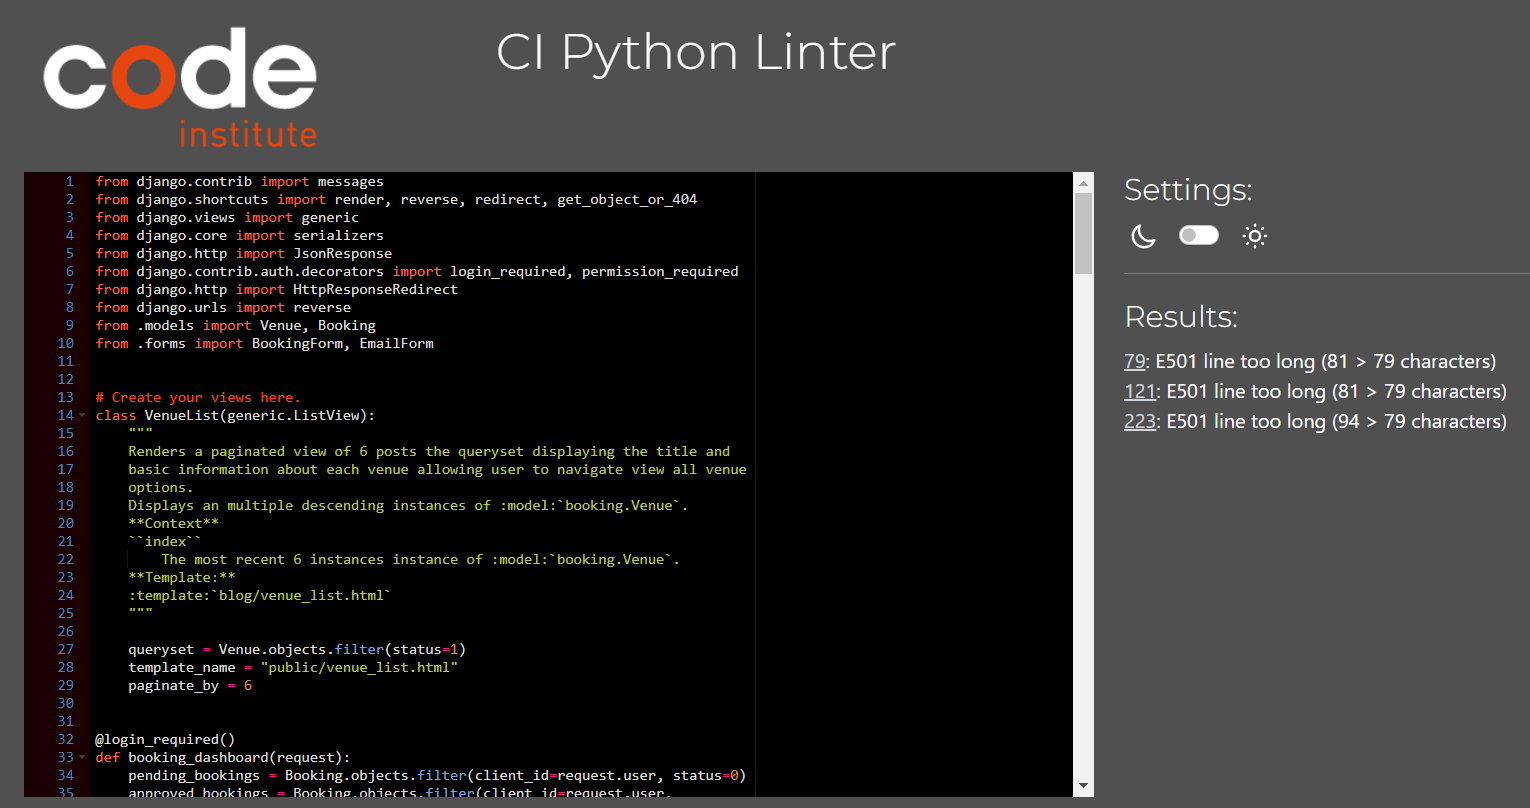
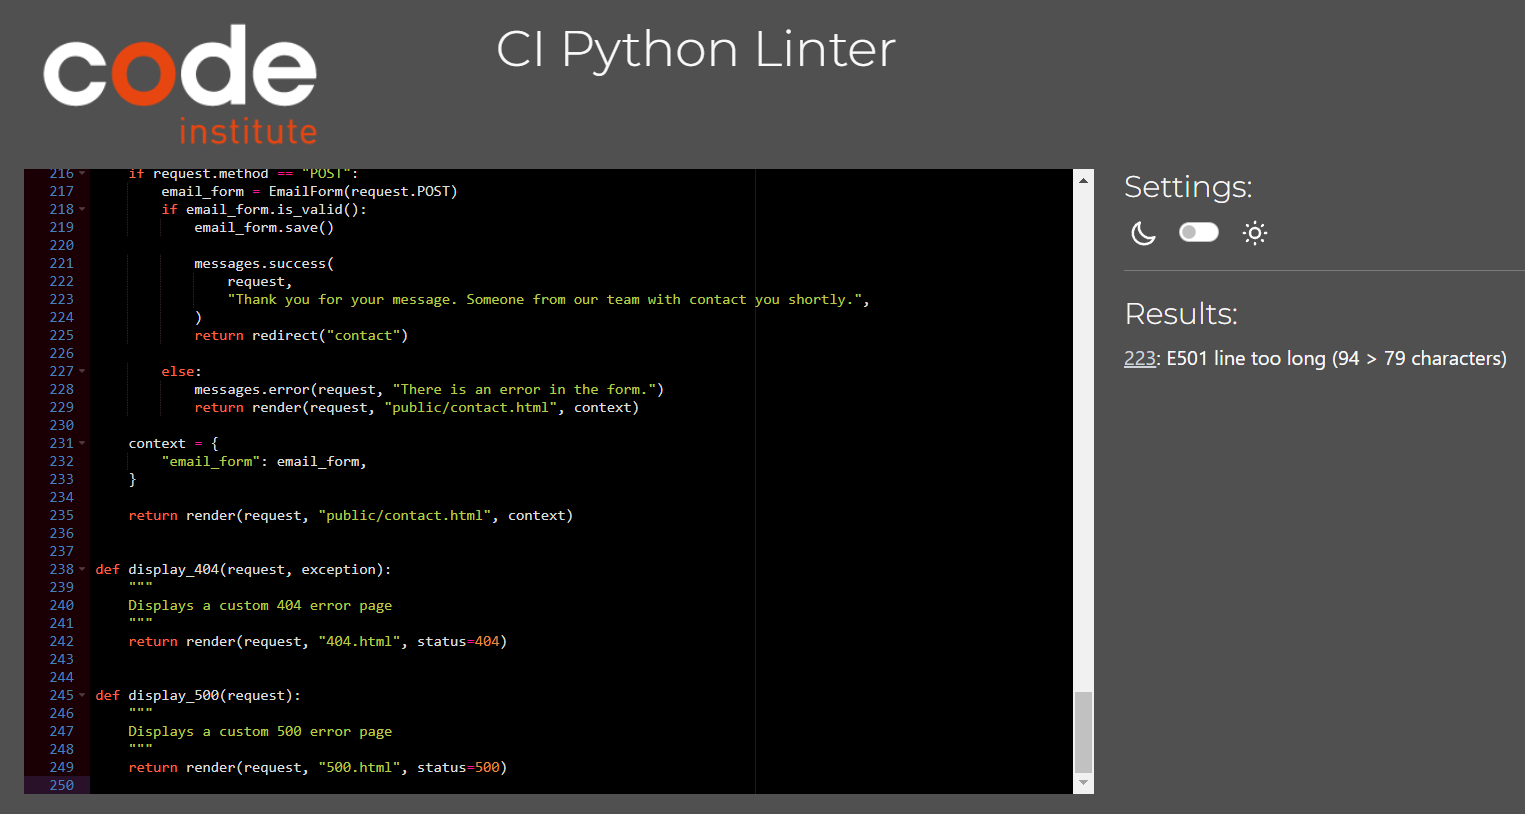
Fix formatting issues with models and views files and update TESTING.md with validation for respective files

Changed region(s): [[0.0, 0.0309, 0.8321, 0.9901], [0.7089, 0.3713, 0.9862, 0.5569], [0.3082, 0.0309, 0.5856, 0.0928]]

diff --git a/booking/models.py b/booking/models.py
@@ -7,13 +7,13 @@ from django.contrib.auth.models import User
 
 
 TYPE_OF_EVENT_CHOICES = {
-        ("Wedding", "Wedding"),
-        ("Corporate", "Corporate Event"),
-        ("Gala", "Gala Event"),
-        ("Special Occasion", "Special Occasion"),
-        ("Workshop", "Workshop"),
-        ("Other", "Other"),
-    }
+    ("Wedding", "Wedding"),
+    ("Corporate", "Corporate Event"),
+    ("Gala", "Gala Event"),
+    ("Special Occasion", "Special Occasion"),
+    ("Workshop", "Workshop"),
+    ("Other", "Other"),
+}
 
 STATUS = ((0, "Pending"), (1, "Approved"))
 
@@ -21,13 +21,14 @@ STATUS = ((0, "Pending"), (1, "Approved"))
 # Create your models here.
 class Venue(models.Model):
     """
-    Stores a single venue entry 
+    Stores a single venue entry
     """
+
     venue_name = models.CharField(max_length=100)
     staff_member = models.ForeignKey(
         User, on_delete=models.PROTECT, related_name="venue_listings"
     )
-    featured_image = CloudinaryField('image', default='placeholder')
+    featured_image = CloudinaryField("image", default="placeholder")
     venue_description = models.TextField()
     venue_blurb = models.TextField(blank=True)
     venue_capacity = models.IntegerField()
@@ -35,12 +36,10 @@ class Venue(models.Model):
     slug = models.SlugField(max_length=200, unique=True)
     status = models.IntegerField(choices=STATUS, default=0)
 
-
     class Meta:
         ordering = ["-venue_name"]
 
-        
-    def __str__ (self):
+    def __str__(self):
         return f"{self.venue_name}"
 
 
@@ -50,66 +49,66 @@ class Booking(models.Model):
     """
     Stores a single booking entry
     """
+
     booking_id = models.AutoField(primary_key=True)
     venue = models.ForeignKey(Venue, on_delete=models.PROTECT)
     client = models.ForeignKey(
         User, on_delete=models.PROTECT, related_name="venue_bookings"
-        )
-    event_type = models.CharField(
-        max_length=20,
-        choices=TYPE_OF_EVENT_CHOICES
     )
+    event_type = models.CharField(max_length=20, choices=TYPE_OF_EVENT_CHOICES)
     event_date = models.DateField()
     num_guests = models.IntegerField(
         default=20,
         validators=[
-            MaxValueValidator(500, message="Guest count cannot exceed 500 guests"),
-            MinValueValidator(20, message="Guest count requires a mimum of 20 guests")
-        ]
-     )
+            MaxValueValidator(
+                500,
+                message="Guest count cannot exceed 500 guests"
+            ),
+            MinValueValidator(
+                20,
+                message="Guest count requires a mimum of 20 guests"
+            ),
+        ],
+    )
     status = models.IntegerField(choices=STATUS, default=0)
     created_on = models.DateTimeField(auto_now_add=True)
     updated_on = models.DateTimeField(auto_now_add=True)
-
 
     # determines if the event is in the past
     @property
     def is_inactive(self):
         return date.today() > self.event_date
-    
 
     # determines if booking is today or in the future
     @property
     def is_active(self):
         return date.today() <= self.event_date
-    
 
-    # Tried this for validation error - not working 
+    # Tried this for validation error - not working
     def save(self, *args, **kwargs):
         if self.num_guests > 500:
             raise ValidationError("Guest count cannot exceed 500 guests")
         super(Booking, self).save(*args, **kwargs)
 
-
     class Meta:
         ordering = ["event_date", "-client_id"]
         constraints = [
             models.UniqueConstraint(
-                fields=['event_date', 'venue'],
-                        name='booking_unique_date_venue',
-                        violation_error_message='Booking with this Venue already exits.',   
+                fields=["event_date", "venue"],
+                name="booking_unique_date_venue",
+                violation_error_message="Booking with Venue already exits.",
             ),
         ]
 
-    def __str__ (self):
+    def __str__(self):
         return f"{self.venue}"
-    
 
 
 class Email(models.Model):
     """
     Stores a single booking entry
     """
+
     name = models.CharField(max_length=250)
     email = models.EmailField()
     message = models.TextField()

diff --git a/booking/views.py b/booking/views.py
@@ -76,7 +76,7 @@ def request_booking_test(request):
 
                 messages.success(
                     request,
-                    "Request for a Venue booking has been created successfully.",
+                    "Request for a booking has been created successfully.",
                 )
                 return redirect("booking-dashboard")
 
@@ -118,7 +118,7 @@ def request_booking(request):
 
                 messages.success(
                     request,
-                    "Request for a Venue booking has been created successfully.",
+                    "Request for a booking has been created successfully.",
                 )
                 return redirect("booking-dashboard")
 
@@ -143,7 +143,6 @@ def edit_booking(request, booking_id):
          An instance of :form:`booking.BookingForm`
 
     """
-    # original_booking = Booking.objects.get(pk=booking_id)
     original_booking = get_object_or_404(Booking, pk=booking_id)
 
     # redirects the user back to the booking dashboard if they do not have

diff --git a/TESTING.md b/TESTING.md
@@ -152,7 +152,7 @@ This application was developed with HTML, CSS, Javascript, and Python using the 
     </details>
     <details><summary>models.py</summary>
 
-    ![models.py](link)
+    ![models.py](documentation/testing/python/screenshot_python_booking_models.png)
     </details>
     <details><summary>forms.py</summary>
 
